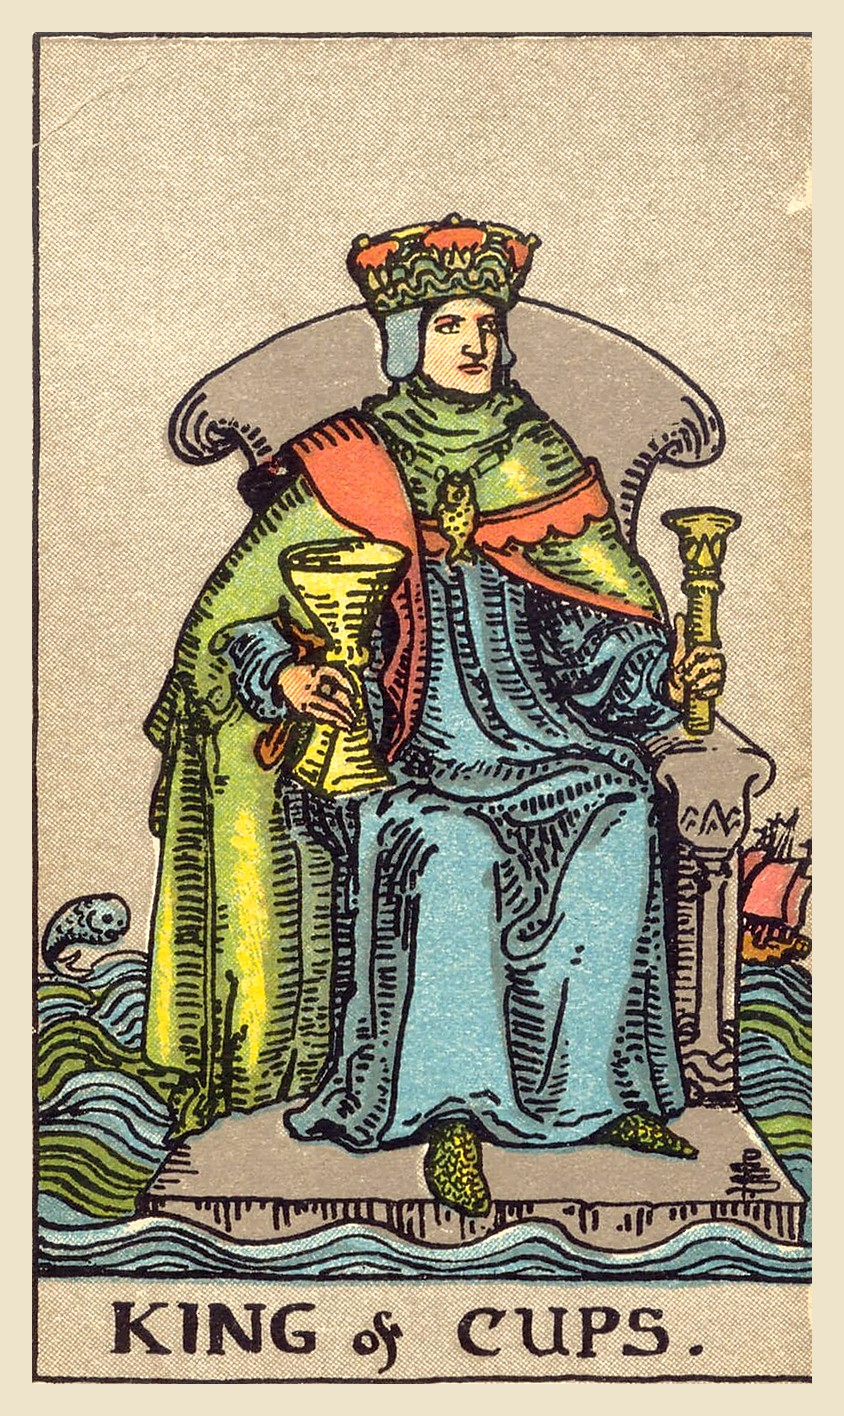
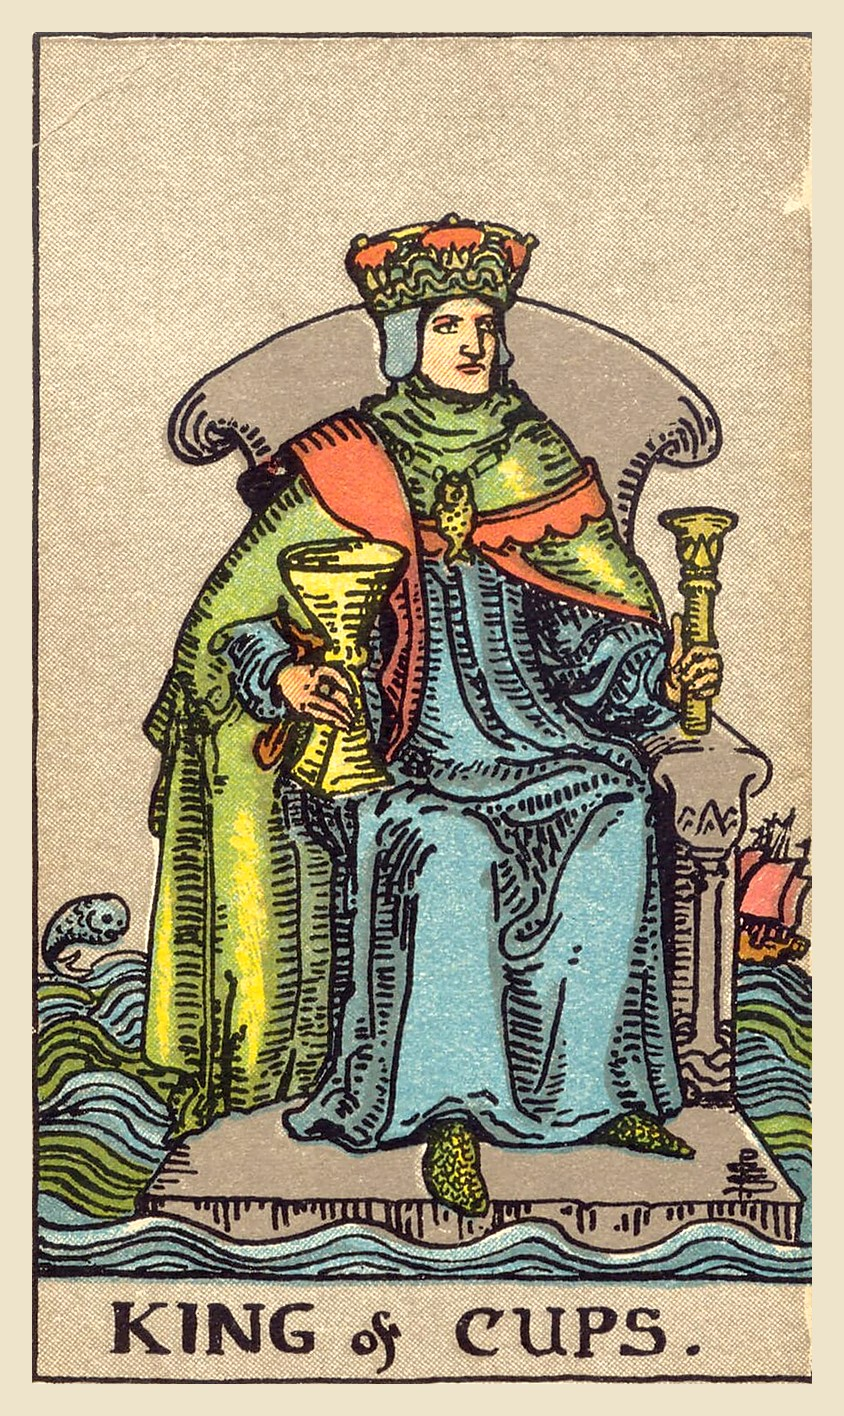
Handle a faint top frame line on the full-size Knight of Cups scan
Claude-Session: https://claude.ai/code/session_01VaK2LxMS9AmaPMg3JXPAQf

diff --git a/tools/clean_card_images.py b/tools/clean_card_images.py
@@ -30,6 +30,7 @@ PAPER_WARMTH = 40  # card paper is warm cream (red minus blue); the scanner bed 
 JPEG_QUALITY = 90
 FRAME_TARGET = 1.735  # usual height / width of the printed frame
 FAINT_LINE_MIN = 0.6  # frame lines are faded on some scans, especially under the title
+FAINT_PAPER_WARMTH = 30  # paper beside a faded line can be paler too
 EDGE_ZONE = 10  # pixels from the scan edge where a line can be the frame cropped tight
 FRAME_RATIO = (1.68, 1.80)  # height / width of the printed frame on real cards
 MAX_TRIM = 0.08  # more than this cut from one edge suggests a wrong frame line
@@ -81,9 +82,9 @@ def frame_box(img):
         """Outermost frame line, trying the most reliable kind of line first."""
         indices = list(indices)
 
-        def paper_outside(i):
+        def paper_outside(i, threshold=PAPER_WARMTH):
             paper = warmth[outside(i)]
-            return paper.size and paper.mean() > PAPER_WARMTH
+            return paper.size and paper.mean() > threshold
 
         # 1. A strong line with card paper outside it.
         for i in indices:
@@ -95,7 +96,7 @@ def frame_box(img):
                 return i
         # 3. A faded line with card paper outside it.
         for i in indices:
-            if profile[i] >= FAINT_LINE_MIN and paper_outside(i):
+            if profile[i] >= FAINT_LINE_MIN and paper_outside(i, FAINT_PAPER_WARMTH):
                 return i
         raise ValueError("frame line not found")
 

diff --git a/content/tarot/images/CREDITS.md b/content/tarot/images/CREDITS.md
@@ -73,7 +73,7 @@ line on the card edge and must not be used.
 | Page of Pentacles | `pentacles-page.jpg` | [RWS1909 - Pentacles 11.jpeg](https://commons.wikimedia.org/wiki/File:RWS1909_-_Pentacles_11.jpeg) | 1909 | Public domain | commons |
 | Knight of Pentacles | `pentacles-knight.jpg` | [RWS1909 - Pentacles 12.jpeg](https://commons.wikimedia.org/wiki/File:RWS1909_-_Pentacles_12.jpeg) | 1909 | Public domain | commons |
 | Queen of Pentacles | `pentacles-queen.jpg` | [RWS1909 - Pentacles 13.jpeg](https://commons.wikimedia.org/wiki/File:RWS1909_-_Pentacles_13.jpeg) | 1909 | Public domain | commons |
-| King of Pentacles | `pentacles-king.jpg` | [RWS1909 - Pentacles 14.jpeg](https://commons.wikimedia.org/wiki/File:RWS1909_-_Pentacles_14.jpeg) | 1909 | Public domain | fallback |
+| King of Pentacles | `pentacles-king.jpg` | [RWS1909 - Pentacles 14.jpeg](https://commons.wikimedia.org/wiki/File:RWS1909_-_Pentacles_14.jpeg) | 1909 | Public domain | commons |
 | Ace of Swords | `swords-01.jpg` | [RWS1909 - Swords 01.jpeg](https://commons.wikimedia.org/wiki/File:RWS1909_-_Swords_01.jpeg) | 1909 | Public domain | fallback |
 | Two of Swords | `swords-02.jpg` | [RWS1909 - Swords 02.jpeg](https://commons.wikimedia.org/wiki/File:RWS1909_-_Swords_02.jpeg) | 1909 | Public domain | fallback |
 | Three of Swords | `swords-03.jpg` | [RWS1909 - Swords 03.jpeg](https://commons.wikimedia.org/wiki/File:RWS1909_-_Swords_03.jpeg) | 1909 | Public domain | fallback |
